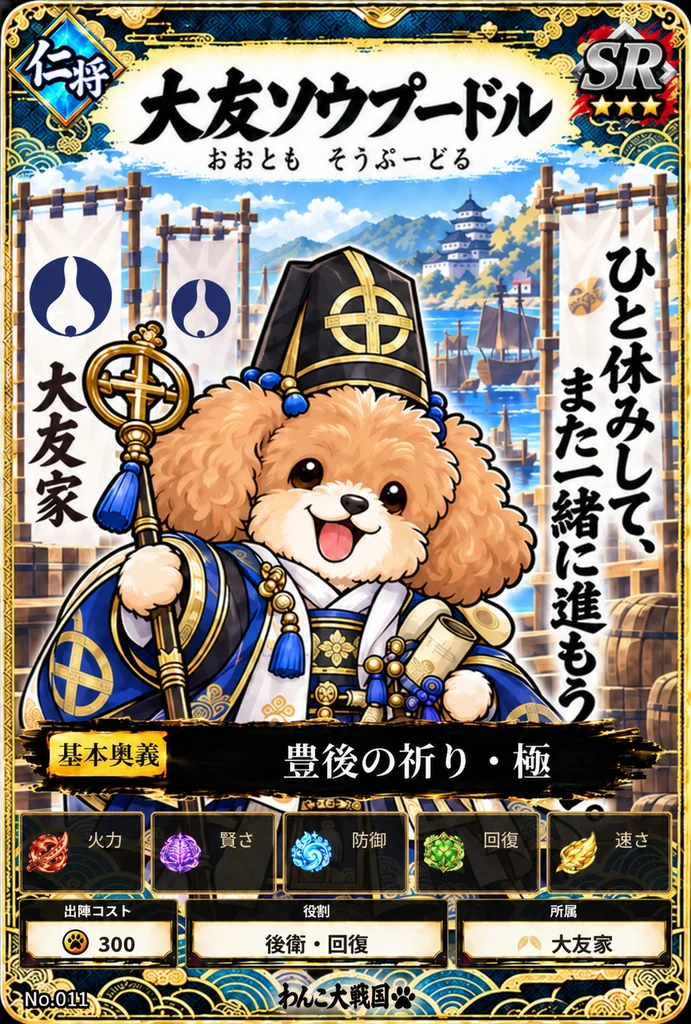
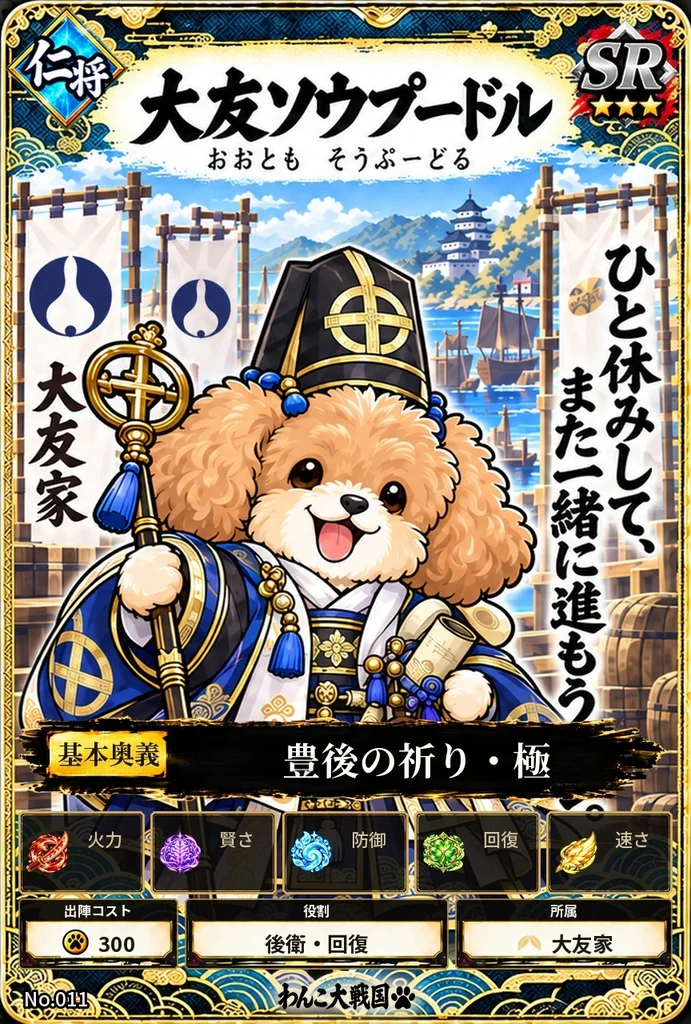
札3枚（011・041・072）を「紋だけ植え替え」に差し替えた
GPT は紋だけ頼んでも絵ぜんぶを描き直していた（041 は元の札と平均 12.6 ずれ、
毛並みや金具の線が少しずつ変わっていた）。元の札と比べて大きく変わった塊＝描き替えた紋だけを
GPT の絵から取り、ほかは元の札のまま残した（素材原本/22_card_parts/graft.py）。
植えた後の元との差：041 4.2／011 2.5／072 2.7（植えた紋の所の差だけ）。
GPT がそのまま返した .png は app/_to_delete/card_gptraw へ移した。

CACHE wanko-v59 → v60

Claude-Session: https://claude.ai/code/session_011eezGUNpaoUF17sV1qbREy

diff --git a/sw.js b/sw.js
@@ -10,7 +10,7 @@
    ・どちらも駄目なときだけ「つながりませぬ」の紙を出す。
 
    直したら CACHE の数を上げること。上げないと古い覚えが残る。 */
-const CACHE = 'wanko-v59';
+const CACHE = 'wanko-v60';
 const SHELL = ['./', './index.html', './manifest.webmanifest'];
 
 self.addEventListener('install', (e) => {
